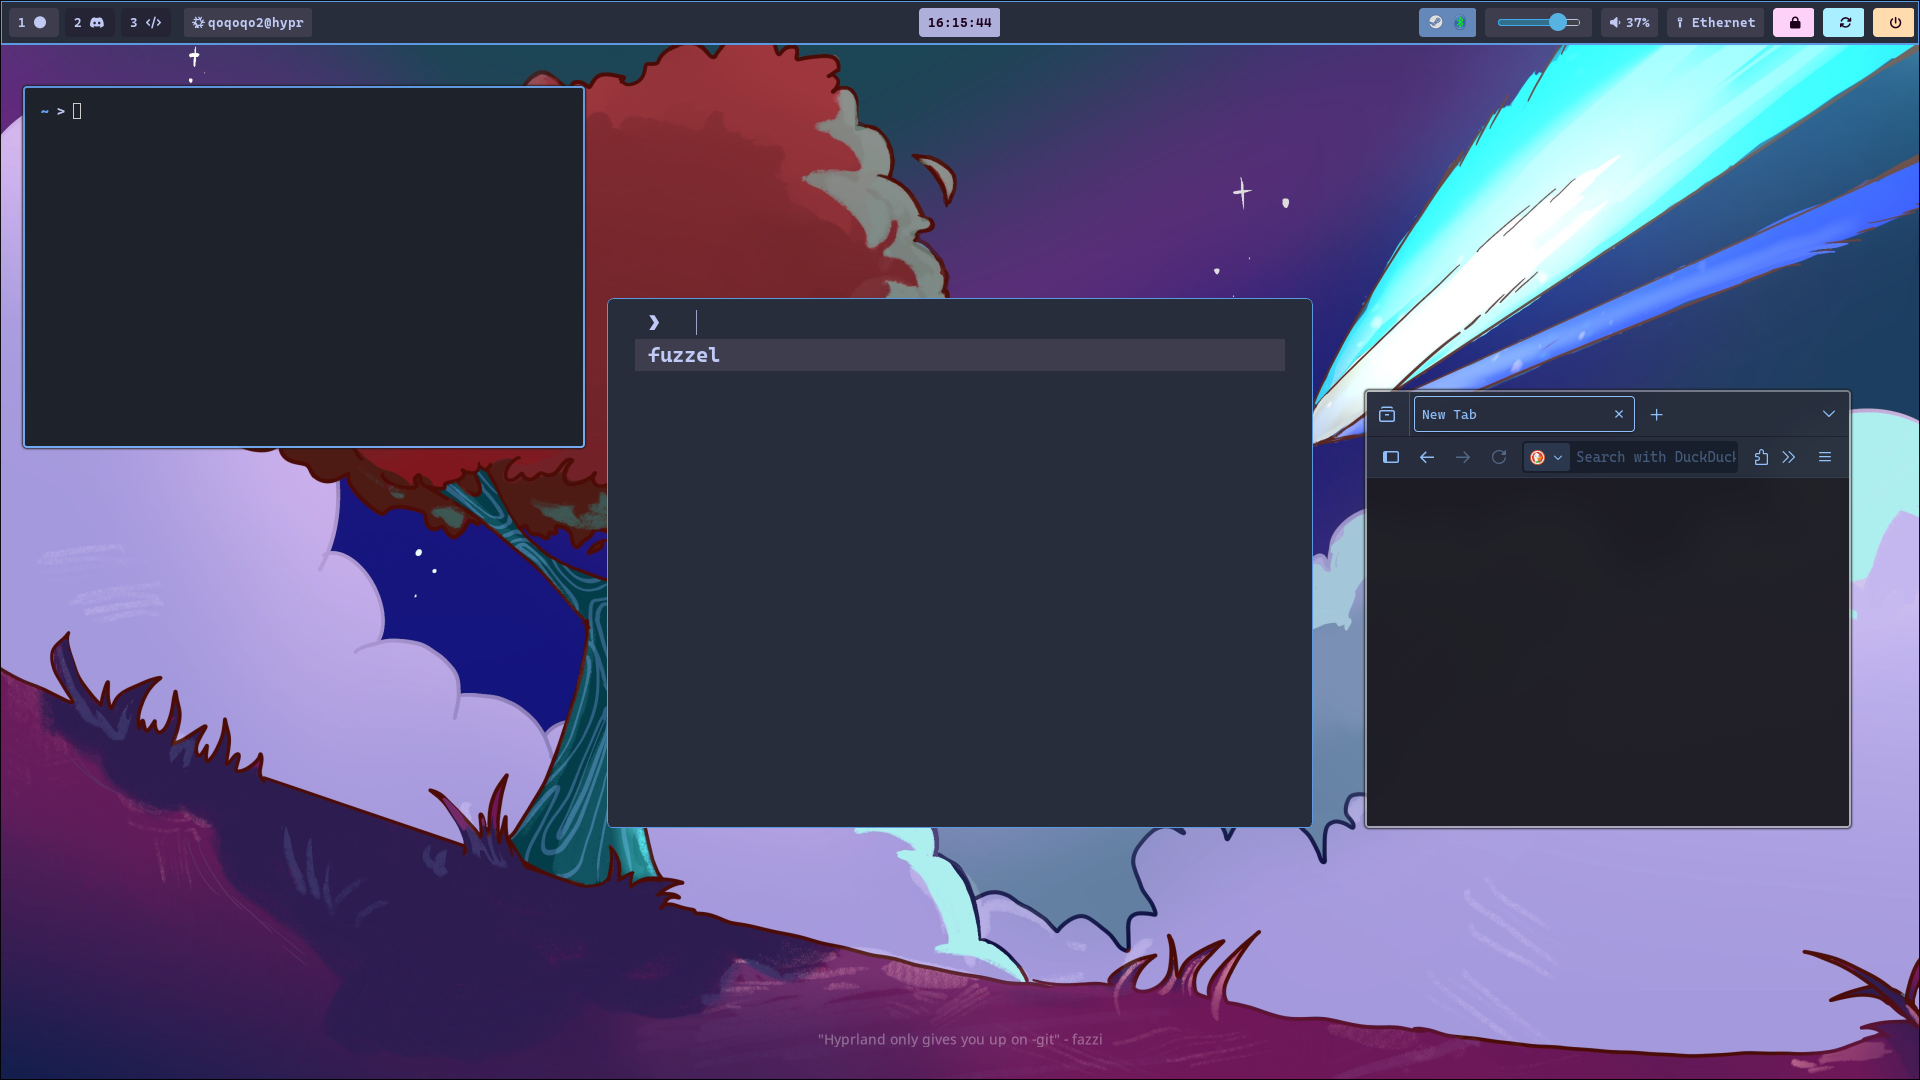
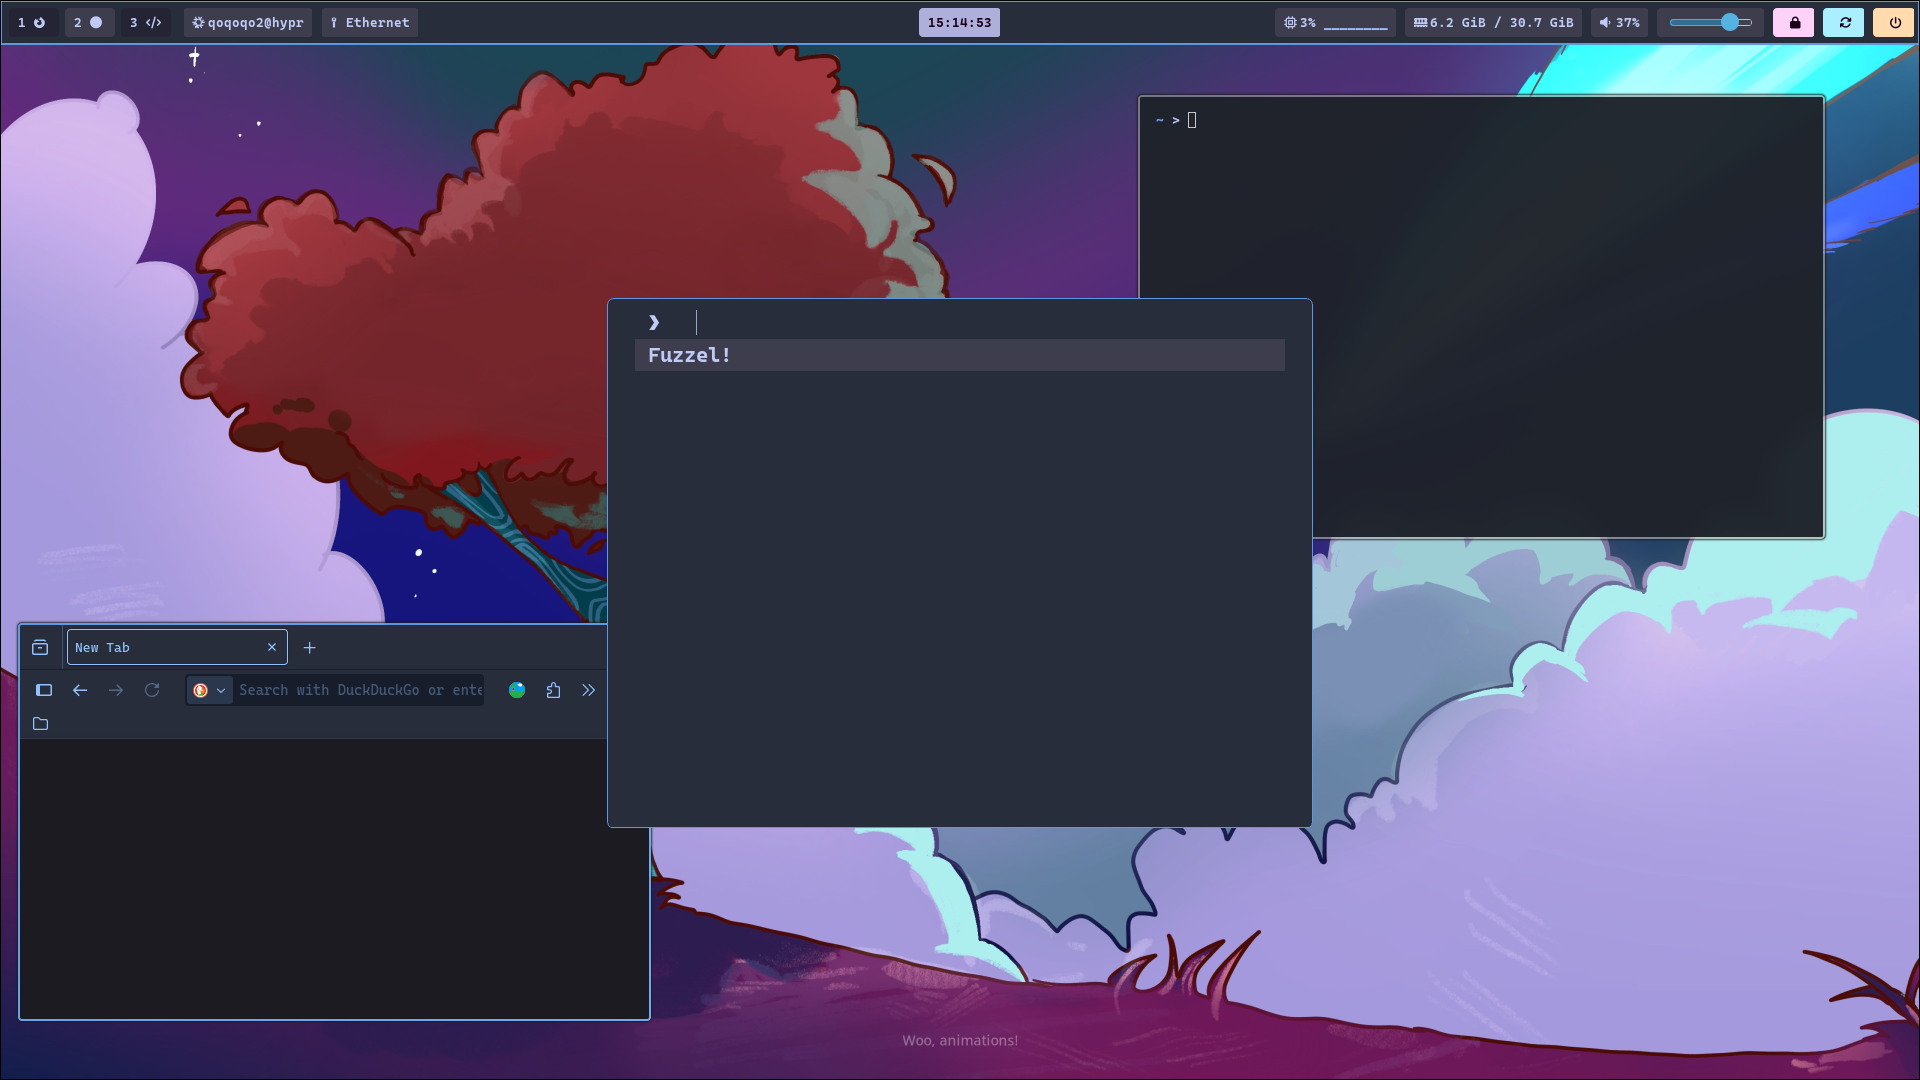
update idk

diff --git a/.config/waybar/style.css b/.config/waybar/style.css
@@ -32,13 +32,15 @@ window#waybar {
 #custom-user\@host,
 #clock,
 #tray,
+#memory,
 #pulseaudio-slider,
 #pulseaudio,
+#cpu,
 #network,
 #battery,
 #custom-lock,
 #custom-reboot,
-#custom-shutdown {
+#custom-poweroff {
   border-radius: 4px;
   border-width: 0px;
   padding: 6px 9px;
@@ -77,11 +79,6 @@ window#waybar {
 #custom-user\@host {
   color: #c0caf5;
   background-color: #3d3d4e;
-}
-
-#tray {
-  color: #c0caf5;
-  background-color: #6488b9;
 }
 
 #pulseaudio-slider {
@@ -125,8 +122,11 @@ window#waybar {
   background-color: #67677a;
 }
 
+#tray,
+#cpu,
 #network,
-#battery {
+#battery,
+#memory {
   color: #c0caf5;
   background-color: #3d3d4e;
 }
@@ -149,11 +149,11 @@ window#waybar {
   background-color: #c5ffff;
 }
 
-#custom-shutdown {
+#custom-poweroff {
   color: #1c001b;
   background-color: #ffdbad;
 }
 
-#custom-shutdown:hover {
+#custom-poweroff:hover {
   background-color: #ffe9bb;
 }

diff --git a/README.md b/README.md
@@ -2,6 +2,12 @@
 
 Really messy hyprland config
 
+## Stuff I use
+Window Manager - Hyprland
+Terminal Emulator - Kitty
+Shell - Zsh ( There is also a Bash config )
+Launcher - Fuzzel
+
 ## Screenshots
 ![](./screenshot.png)
 ![](./hyprlock.png)
